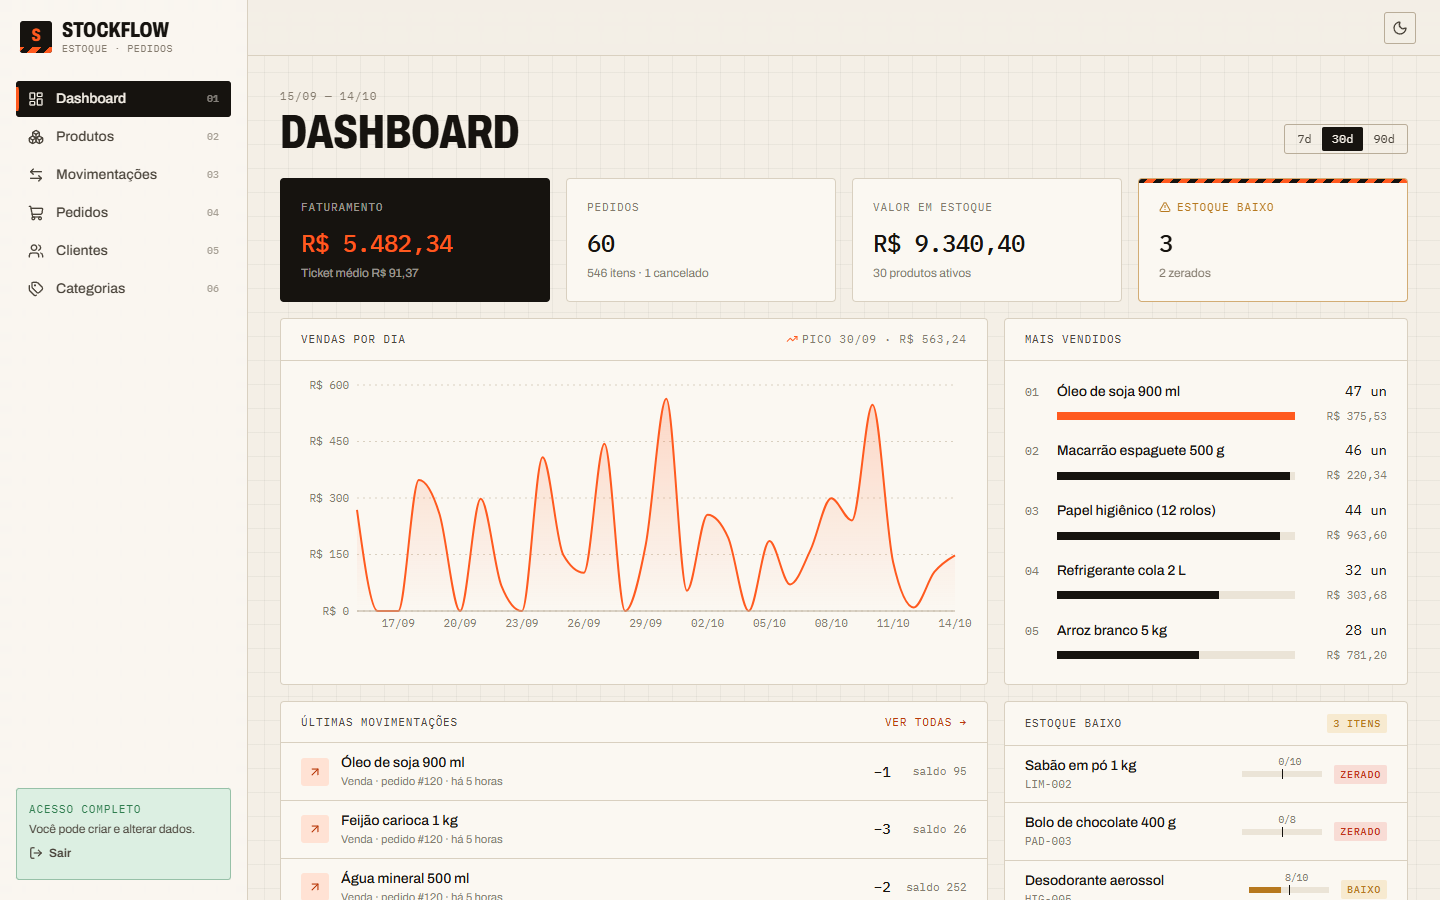
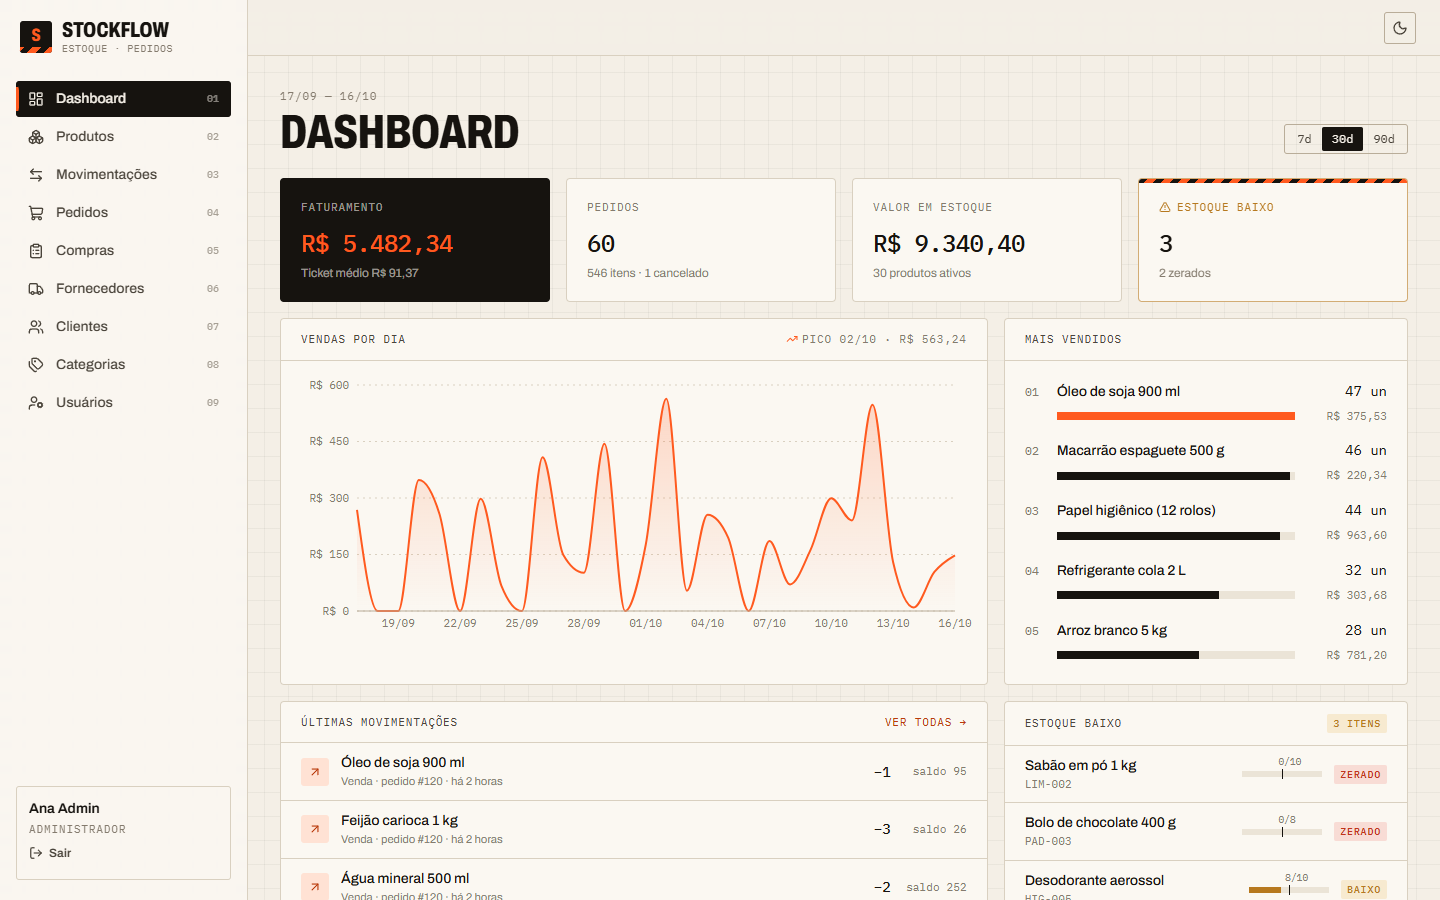
docs: prints novos (login, compras) e README com perfis e testes atuais (M9)

diff --git a/README.md b/README.md
@@ -51,6 +51,8 @@ Interface no estilo de painel administrativo, com tema claro e escuro, que se ad
 | **Dashboard:** faturamento, pedidos, valor em estoque, alertas de estoque baixo, vendas por dia e mais vendidos | **Novo pedido:** busca sem acento, total ao vivo, aviso de item acima do estoque e `Idempotency-Key` automática |
 | ![Detalhe do produto](docs/screenshots/product-detail.png) | ![Lista de produtos](docs/screenshots/products.png) |
 | **Produto:** gráfico do saldo ao longo do tempo (a partir do `balance_after`) e histórico auditável | **Produtos:** busca, filtros e ordenação guardados na URL, com selo de estoque ok/baixo/zerado |
+| ![Nova compra com sugestão de reposição](docs/screenshots/new-purchase.png) | ![Tela de login](docs/screenshots/login.png) |
+| **Nova compra:** a sugestão de reposição entra com um clique; o estoque só sobe no recebimento | **Login:** um botão para cada perfil de demonstração (administrador, operador e leitor) |
 
 - **Login com perfis:** `LEITOR` só consulta; `OPERADOR` também registra pedidos, movimentações, compras, clientes e fornecedores; `ADMIN` também cuida do catálogo e dos usuários. Os botões que o perfil não pode usar ficam desabilitados com a explicação, mas quem decide é a API (`403`). A tela de login tem um botão para cada usuário de demonstração.
 - **Erros da API na tela certa:** "SKU já existe" aparece embaixo do campo SKU, e "estoque insuficiente" aparece no carrinho sem perder os itens.
